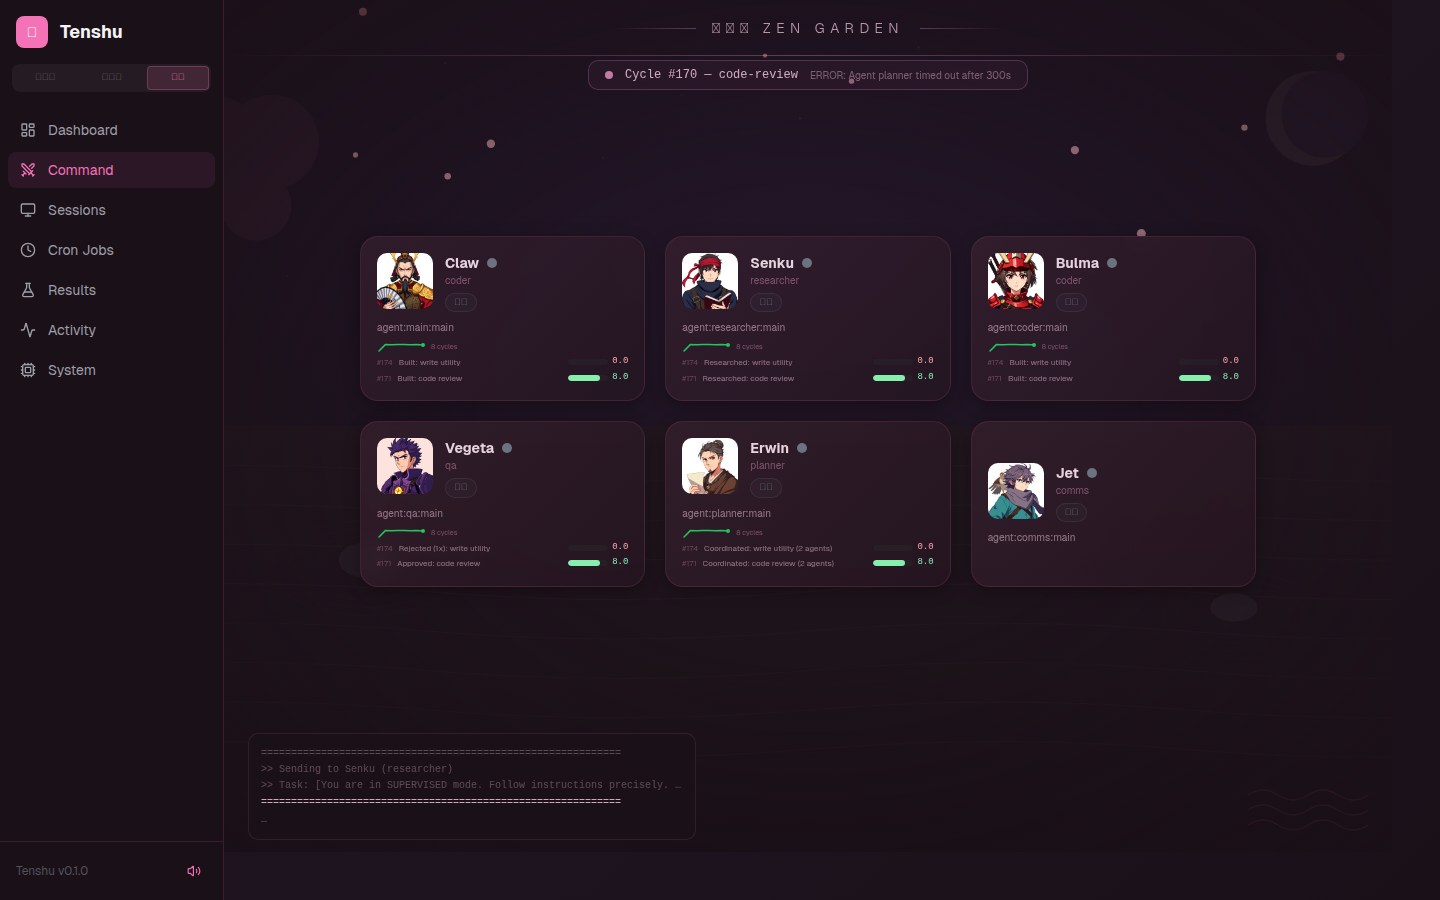
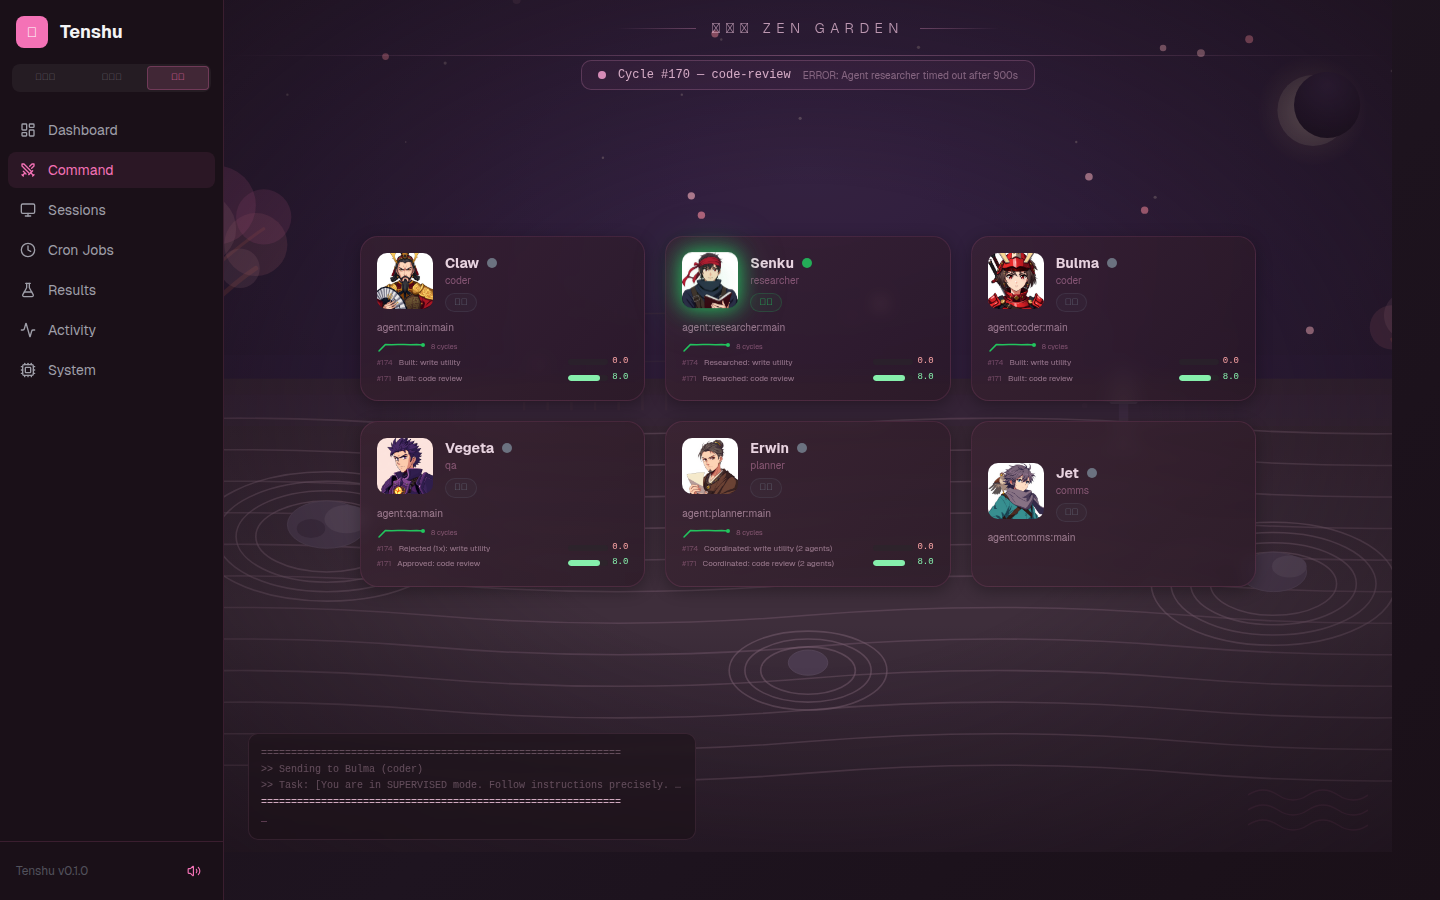
fix: make zen garden background much more visible
Rewrote SVG with brighter colors, more prominent zen elements
(sand raking, stones, cherry trees, moon, stone lantern, bamboo
fence), and bumped background opacity from 0.5 to 0.85.

diff --git a/client/src/office2d/GardenView.tsx b/client/src/office2d/GardenView.tsx
@@ -91,7 +91,7 @@ export function GardenView({ agents, onSelectAgent, selectedAgentId }: GardenVie
         backgroundImage: "url(/assets/backgrounds/zen_garden_0.svg)",
         backgroundSize: "cover",
         backgroundPosition: "center",
-        opacity: 0.5,
+        opacity: 0.85,
       }} />
       <AnimatedCanvas theme="garden" intensity={intensity} />
 
